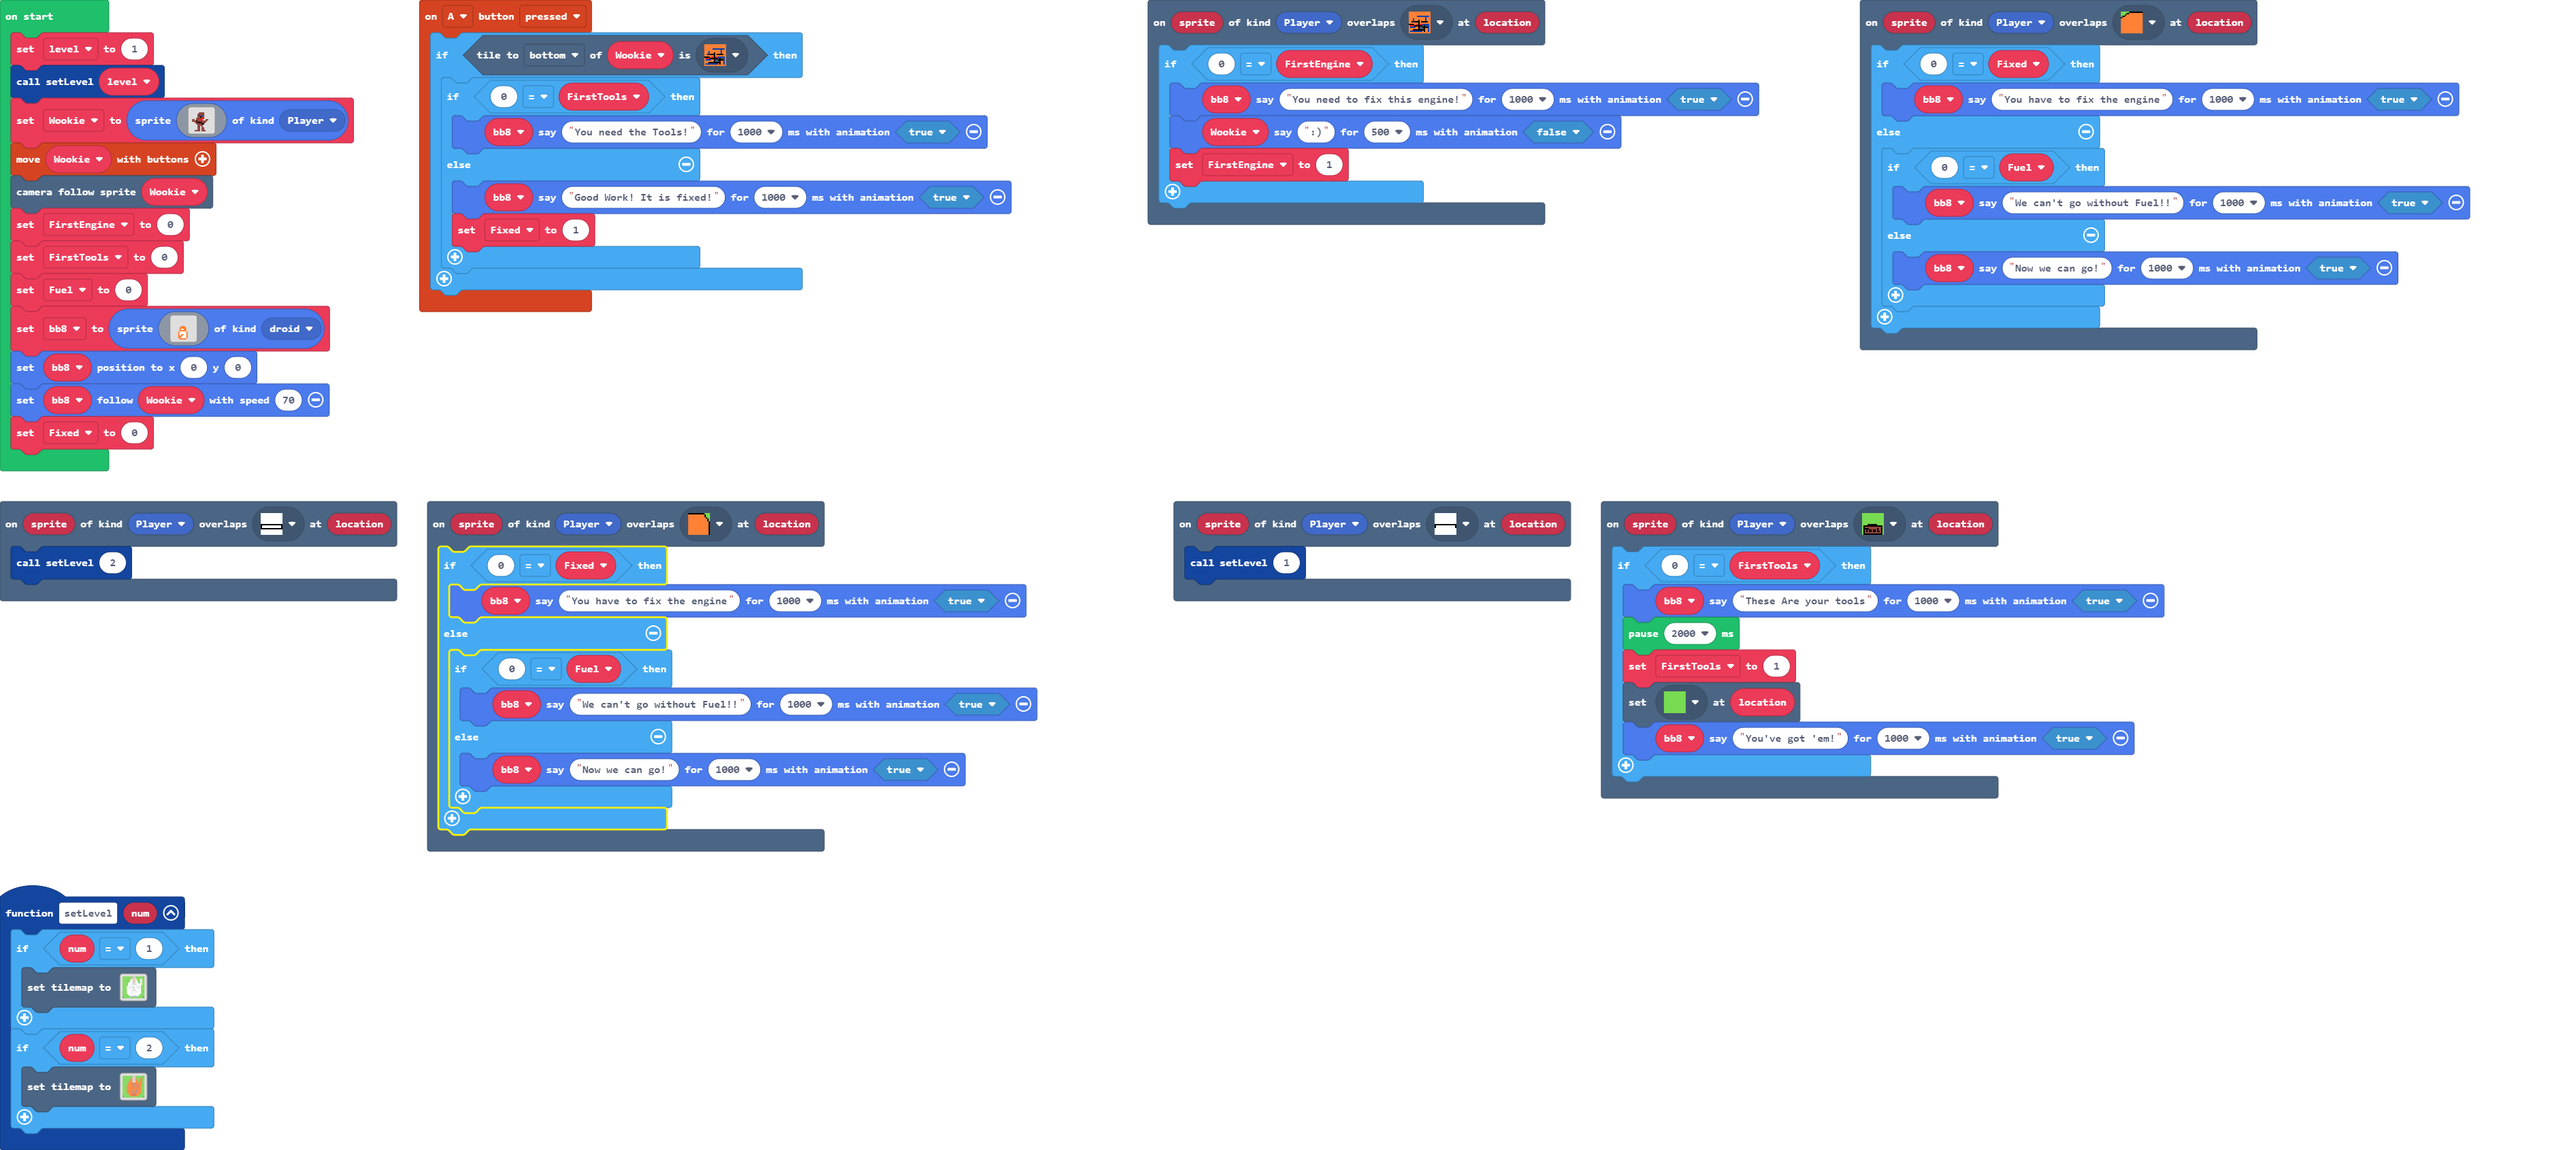
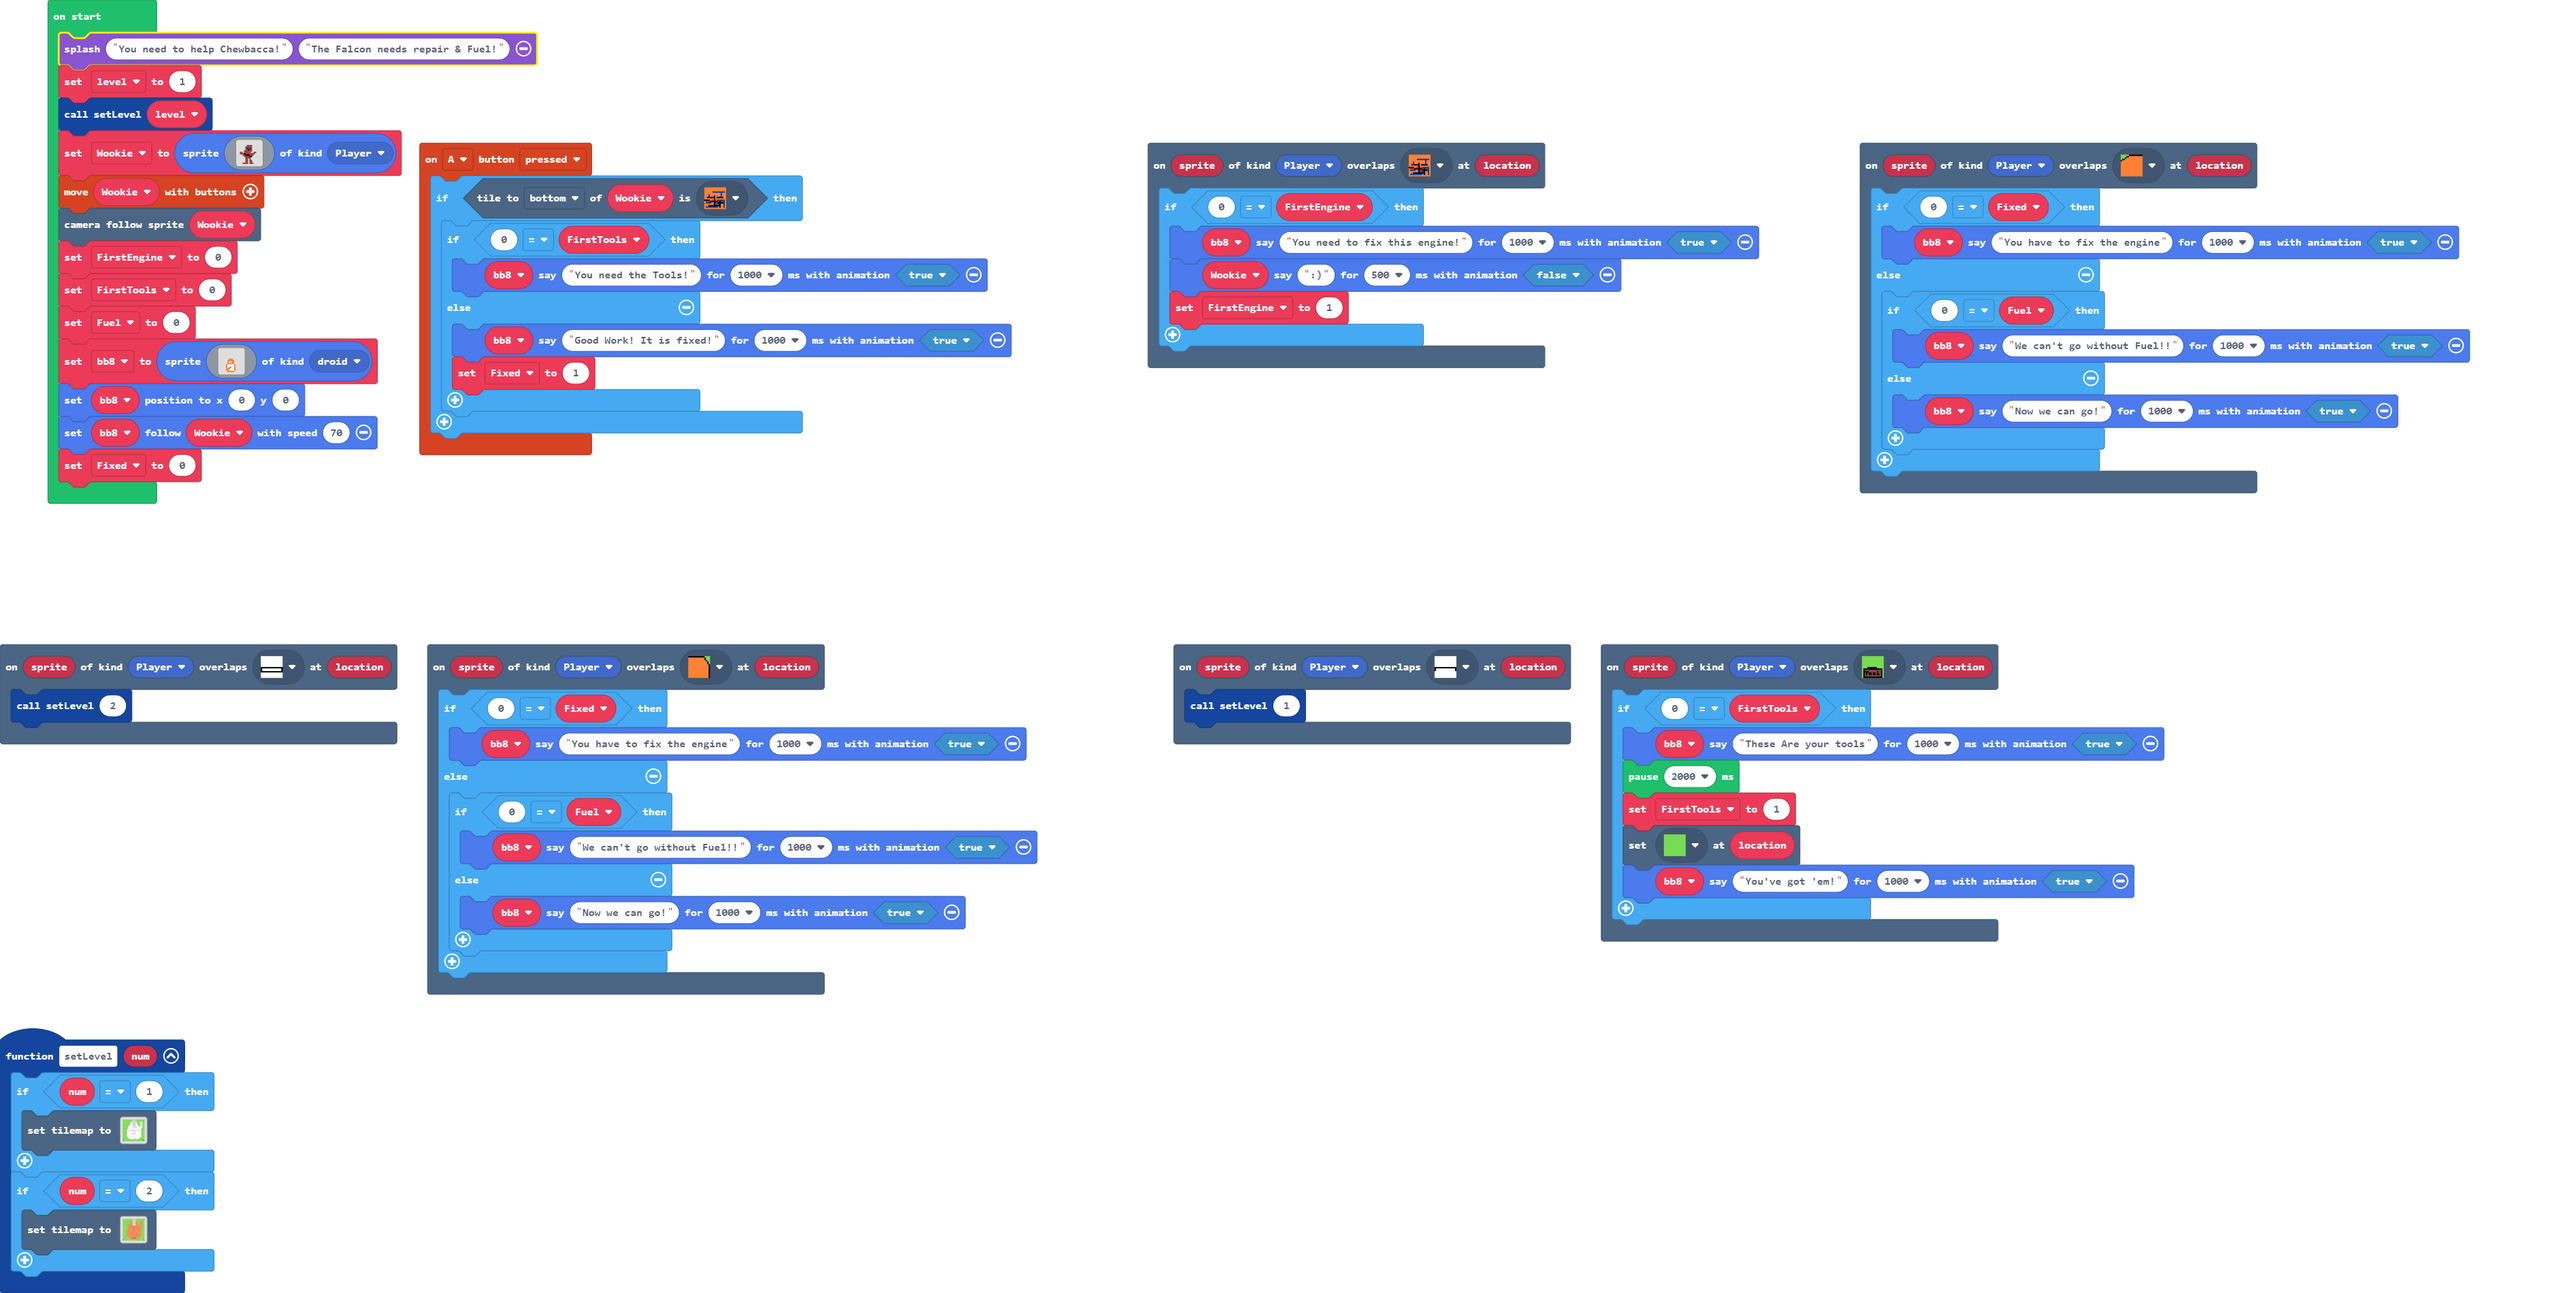
Update main.blocks, main.ts

diff --git a/main.ts b/main.ts
@@ -69,6 +69,7 @@ let Fuel = 0
 let FirstTools = 0
 let FirstEngine = 0
 let Wookie: Sprite = null
+game.splash("You need to help Chewbacca!", "The Falcon needs repair & Fuel!")
 let level = 1
 setLevel(level)
 Wookie = sprites.create(assets.image`Chewbacca`, SpriteKind.Player)
